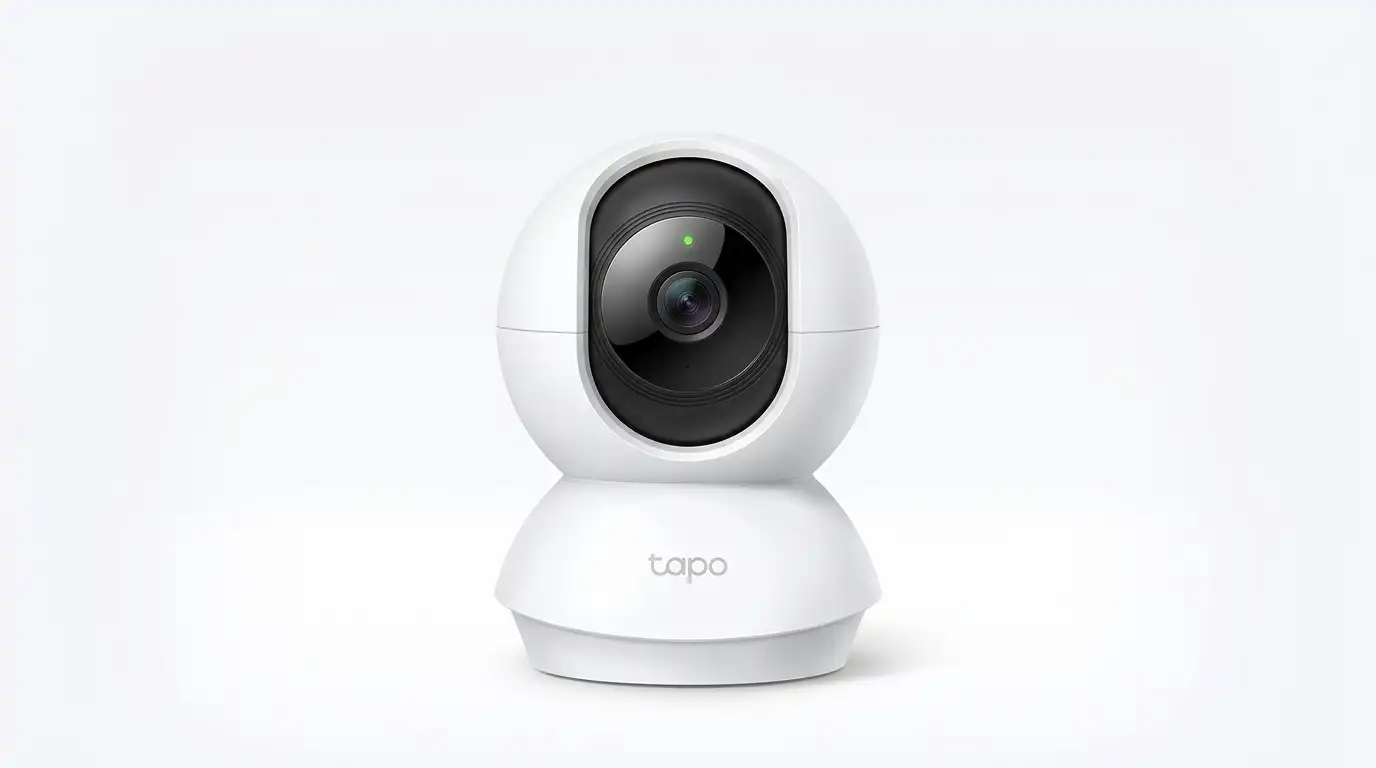
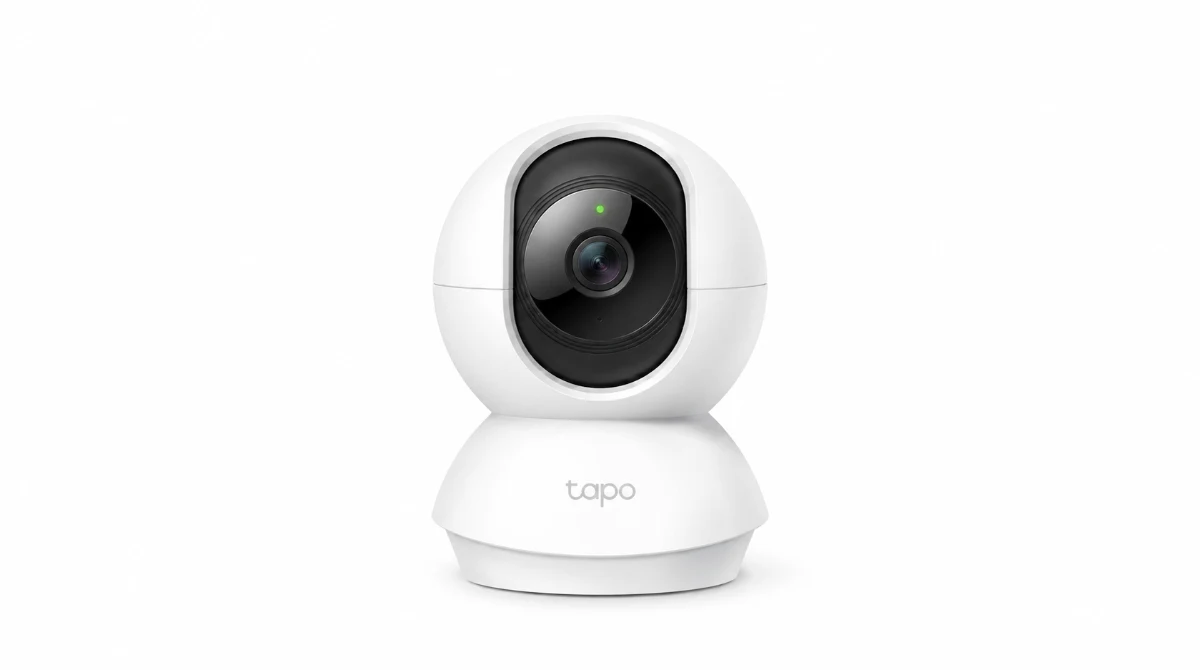
fix: use white backgrounds for smart home product photos
Update C200, C210, P110, and H100 images with white backgrounds, retain lightweight WebP assets, and document editing prompts.

diff --git a/public/assets/products/smart-home-white-backgrounds.prompt.md b/public/assets/products/smart-home-white-backgrounds.prompt.md
@@ -1,0 +1,19 @@
+Mode: built-in image_gen edit; original project photos used as edit targets.
+Final assets: home-01.webp, home-02.webp, home-05.webp, home-10.webp.
+Outputs are re-encoded as WebP for the existing product image URLs.
+
+## home-01.webp
+
+Use case: precise-object-edit. Asset type: existing ecommerce product photograph background replacement. Input image is the edit target home-01.webp, not a style reference. Remove the existing off-white/gray background and replace it with perfectly uniform pure white #FFFFFF edge to edge. Preserve the exact product pictured: its shape, front details, logos and text, ports, buttons, color, perspective and camera angle. Do not redesign or substitute a different product. Preserve the original framing, product position, size and aspect ratio. Preserve natural shading on the product itself and only a very faint contact shadow immediately underneath. No gray gradient, no scenery, no border, no added text or watermark. Deliver a single finished product photo with opaque white background.
+
+## home-02.webp
+
+Use case: precise-object-edit. Asset type: existing ecommerce product photograph background replacement. Input image is the edit target home-02.webp, not a style reference. Remove the existing off-white/gray background and replace it with perfectly uniform pure white #FFFFFF edge to edge. Preserve the exact product pictured: its shape, front details, logos and text, ports, buttons, color, perspective and camera angle. Do not redesign or substitute a different product. Preserve the original framing, product position, size and aspect ratio. Preserve natural shading on the product itself and only a very faint contact shadow immediately underneath. No gray gradient, no scenery, no border, no added text or watermark. Deliver a single finished product photo with opaque white background.
+
+## home-05.webp
+
+Use case: precise-object-edit. Asset type: existing ecommerce product photograph background replacement. Input image is the edit target home-05.webp, not a style reference. Remove the existing off-white/gray background including the round wall mounting plate behind the rectangular plug (background fixture only) and replace it with perfectly uniform pure white #FFFFFF edge to edge. Preserve the exact product pictured: its shape, front details, logos and text, ports, buttons, color, perspective and camera angle. Do not redesign or substitute a different product. Preserve the original framing, product position, size and aspect ratio. Preserve natural shading on the product itself and only a very faint contact shadow immediately underneath. No gray gradient, no scenery, no border, no added text or watermark. Deliver a single finished product photo with opaque white background.
+
+## home-10.webp
+
+Use case: precise-object-edit. Asset type: existing ecommerce product photograph background replacement. Input image is the edit target home-10.webp, not a style reference. Remove the existing off-white/gray background and replace it with perfectly uniform pure white #FFFFFF edge to edge. Preserve the exact product pictured: its shape, front details, logos and text, ports, buttons, color, perspective and camera angle. Do not redesign or substitute a different product. Preserve the original framing, product position, size and aspect ratio. Preserve natural shading on the product itself and only a very faint contact shadow immediately underneath. No gray gradient, no scenery, no border, no added text or watermark. Deliver a single finished product photo with opaque white background.
